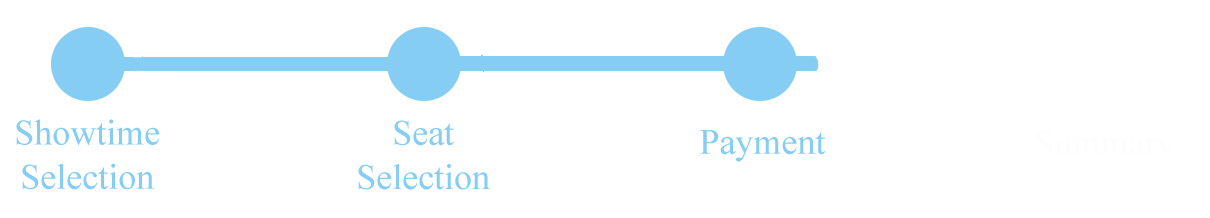
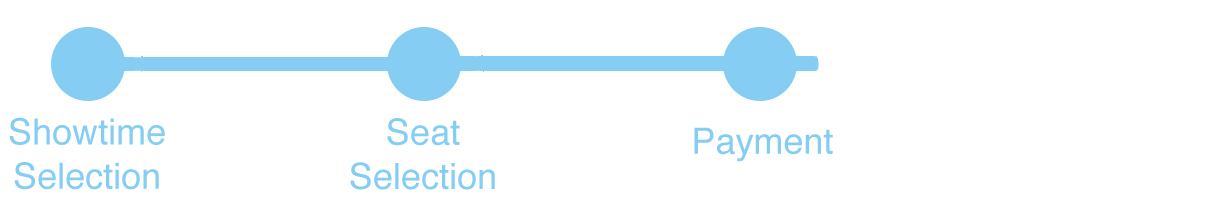
Add files via upload

diff --git a/payment.html b/payment.html
@@ -10,26 +10,24 @@
 
     </head>
     <body>
-    <div class="form-popup" id="popUp">
-        <h1>Login
-            <button type="submit" id="cancel" onclick="closePopUp()">X</button>
-        </h1>
+        <div class="form-popup" id="popUp">
+            <h1>Login
+                <button type="submit" id="cancel" onclick="closePopUp()">X</button>
+            </h1>
+        
+            <input type="text" placeholder="Username" name="Username" required>
 
-        <label><b>Username</b></label>
-        <input type="text" placeholder="Enter Username" name="Username" required>
+            <input type="password" placeholder="Password" name="Password" required>
+            
+            <div class="btn" >
+                <a href="payment.html">
+                    <button type="submit" id="login">Login</button>   
+                </a>                  
+            </div>
 
-        <label><b>Password</b></label>
-        <input type="password" placeholder="Enter Password" name="Password" required>
-
-        <div class="btn">
-            <a href="payment.html">
-                <button type="submit" id="login">Login</button>   
-            </a>   
-        </div>
-
-        <div class="word" style="text-align: center">
-            <a href=""> not a member yet? click here to register</a>
-        </div>
+            <div class="word" style="text-align: center">
+                <a href="">Not a member yet? Click here to register.</a>
+            </div>
     </div>
 
     <div class="login-form" id="loginForm">
@@ -75,10 +73,10 @@
     <div class="payPop" id="pay">
         <button type="submit" id="cancel2" onclick="closePay()" style="font-size:20px" >X</button>
         <h1>Payment</h1>
-        <input type="text" placeholder="Please enter your email" name="email" required >
-        <input type="text" placeholder="Enter card holder name" name="name" required>
-        <input type="text" placeholder="Enter credit card number" name="cr" required>
-        <input type="text" placeholder="Enter CVC" name="cvc" required>
+        <input type="text" placeholder="Email" name="email" required >
+        <input type="text" placeholder="Card holder name" name="name" required>
+        <input type="text" placeholder="Credit card number" name="cr" required>
+        <input type="text" placeholder="CVC" name="cvc" required>
         <div class="btn">
             <button type="submit" id="submit"  onclick="gotoConfirm()">submit</button>
         </div>

diff --git a/confirm.html b/confirm.html
@@ -2,6 +2,7 @@
 <html lang="en">
 <head>
     <link rel="stylesheet" type="text/css" href="payment_theme.css">
+    <link rel="stylesheet" type="text/css" href="theme.css">
     <script src="scripts/login.js"></script>
     <meta charset="UTF-8">
     <meta name="viewport" content="width=device-width, initial-scale=1">
@@ -41,16 +42,17 @@
         <img src="img/logo.png" alt="The website logo">
     </a>
 </div>
+
 <div class="content">
 
     <div class="description">
         <img id="step1" src="img/step4.png" alt="progress bar">
-        <h1 style="font-size: x-large;text-align:center">Your Payment Has Been Successfully Received</h1>
+        <h1 style="font-size: x-large;text-align:center">YOUR PAYMENT WAS SUCCESSFUL</h1>
         <p style="text-align:center;font-size:30px"><br>Thank You
             <br>Your movie ticket for <br><span style="color:darkturquoise">Weathering with You</span>  <br>at
             <span style="color:darkturquoise">9:00pm </span>in <span style="color:darkturquoise">St.vital Theatre</span>
             <br>has been sent to <span style="color:darkturquoise"> <br>abc@gmail.com</span>
-        <p style="font-size:20px;text-align:center">Please bring your ticket to the theatre for gain entry</p>
+        <p style="font-size:20px;text-align:center">Please bring your ticket to the theatre to gain entry</p>
         <div class="ticket">
             <img src="img/ticket.jpg"  alt="Movie ticket" >
         </div>
@@ -58,12 +60,12 @@
             <button type="submit" id="Home">Home</button>
             </a>
         </p>
-
+        <div class="footer">
+            Footer
+        </div>
     </div>
 </div>
-<div class="footer">
-    Footer
-</div>
+
 
 </body>
 </html>

diff --git a/payment_theme.css b/payment_theme.css
@@ -1,7 +1,8 @@
 * {
-    margin:auto;
+    /*margin:auto;*/
 }
 body{
+    margin: 0;
     max-width:100%;
    overflow-x:hidden;
 }
@@ -119,7 +120,7 @@ div.header
     top: 0;
     max-height: 100px;
     width: 100%;
-    padding: 10px 40px;
+    /*padding: 10px 40px;*/
     background-color: rgb(100,100,100);
 }
 
@@ -228,7 +229,7 @@ div.header img
 
 .footer
 {
-    clear:left;
+    /*clear:left;*/
     background-color: rgb(30,30,30);
     padding: 50px;
     text-align: center;

diff --git a/theme.css b/theme.css
@@ -1,3 +1,8 @@
+* 
+{
+    font-family: "Helvetica Neue", Helvetica, Arial, sans-serif;
+}
+
 h1
 {
     margin-top:0px;
